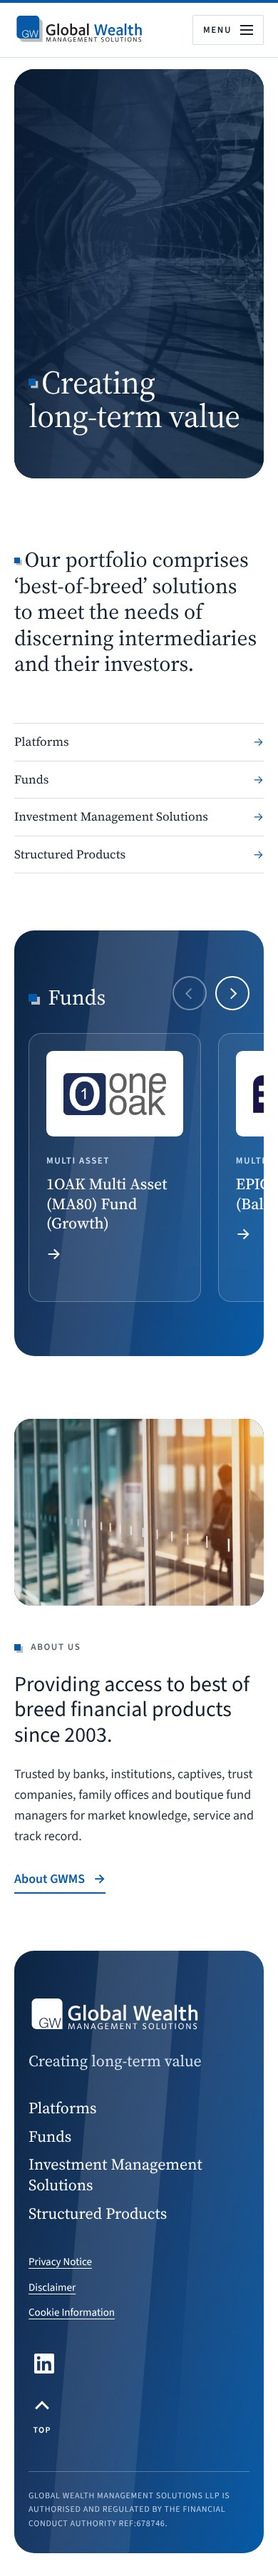
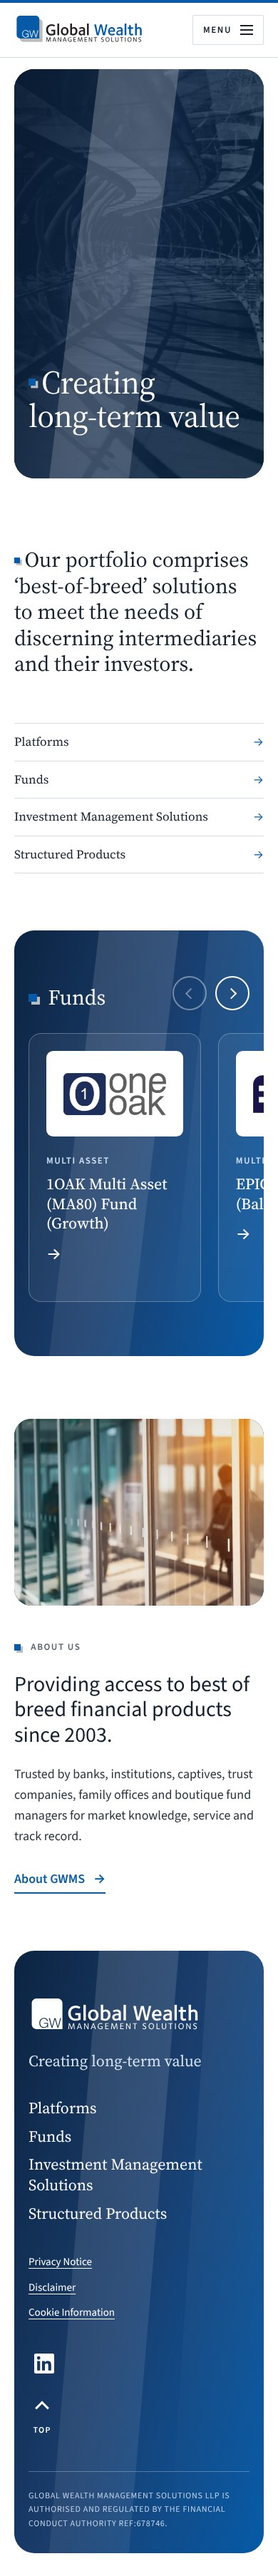
Concept home: hero diagonal band 10 points more opaque and above the veil

Changed region(s): [[0.1846, 0.0, 0.6462, 0.186]]

diff --git a/preview/css/concept.css b/preview/css/concept.css
@@ -128,3 +128,8 @@
 .to-top__label { font-size: 0.75rem; font-weight: 600; letter-spacing: 0.12em; text-transform: uppercase; }
 .to-top:hover .to-top__tile { transform: translateY(-2px); }
 .to-top:focus-visible { outline: 3px solid #fff; outline-offset: 6px; }
+
+/* ---- Hero: diagonal band lifted above the photo veil and 10 points less transparent ---- */
+.hero--framed { --band-1: rgba(255, 255, 255, 0.23); --band-2: rgba(255, 255, 255, 0.17); }
+.hero--framed::before { z-index: 0; }
+.hero--framed .hero__inner { position: relative; z-index: 1; }

diff --git a/docs/08-concept-home.md b/docs/08-concept-home.md
@@ -45,3 +45,6 @@ About-band photo swapped to the warm sunlit version of the glass corridor (`desi
 
 ## Revision 8
 The offset-square marker is now inline with the first line of text in every section: hero headline, second-section statement, Funds heading and About label (it was above the text in the first two).
+
+## Revision 9
+Hero diagonal band: opacity raised by 10 points (white 13%→23% at the top, 7%→17% at the bottom) and drawn above the photo veil, where it was previously hidden. Other gradient panels (Funds, footer) are unchanged.
